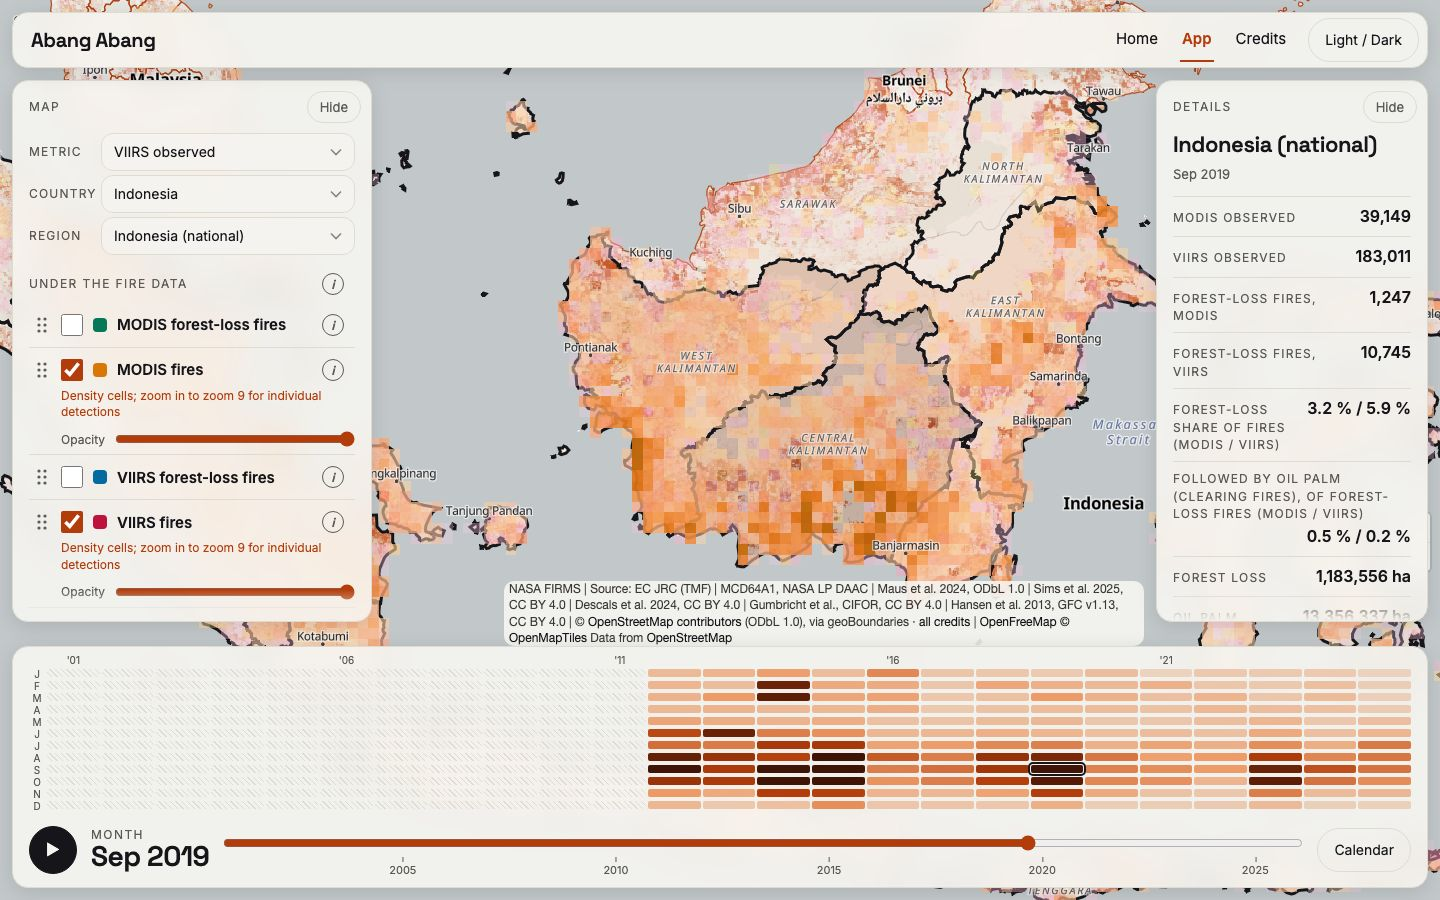
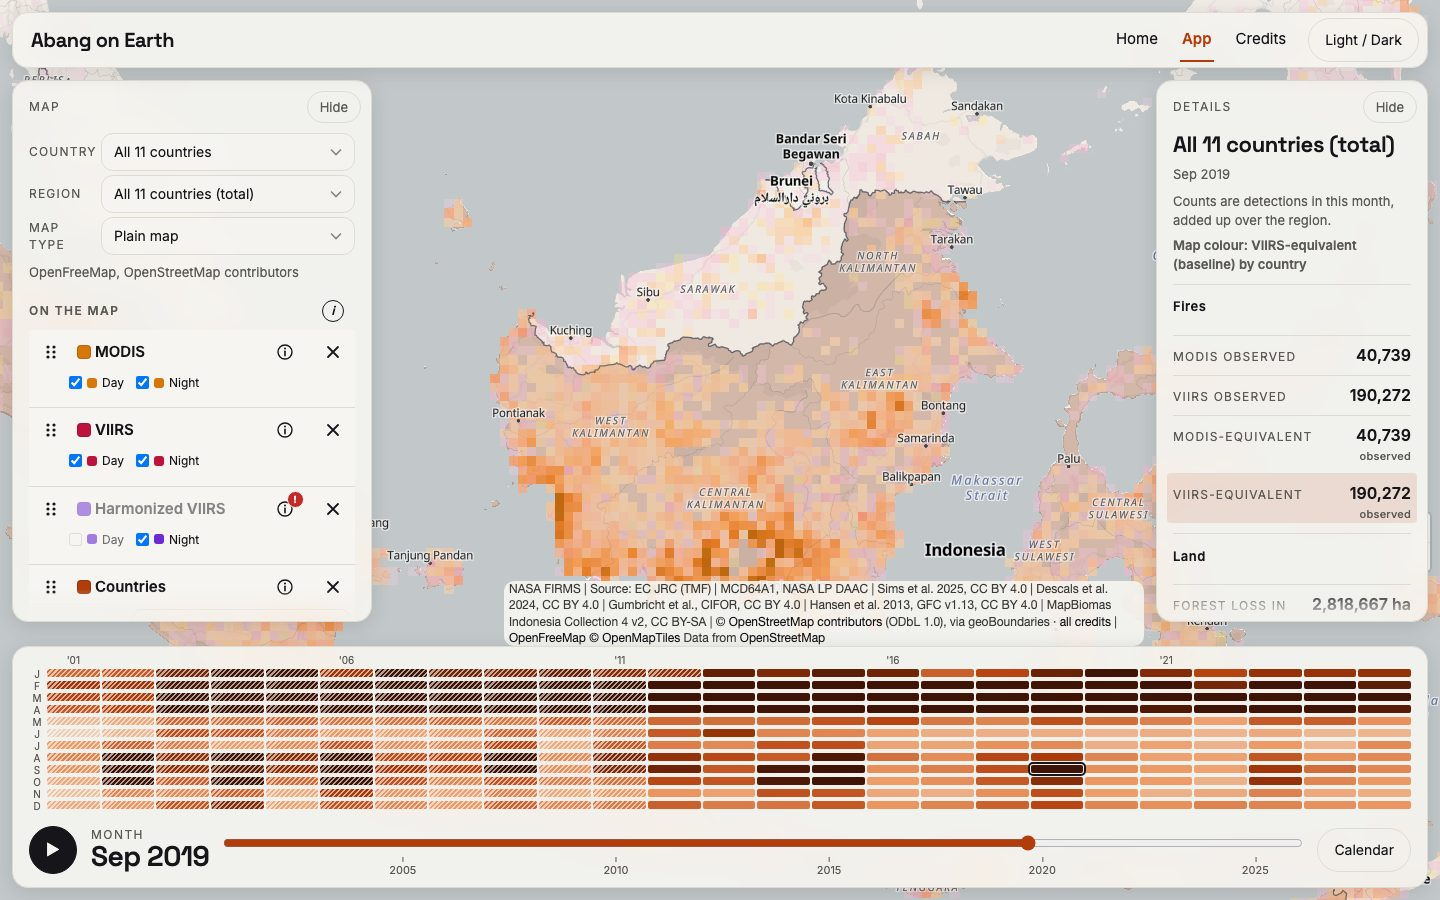
Landing page: screenshot of the current app, with matching alt text

diff --git a/index.html b/index.html
@@ -46,7 +46,7 @@
 </section>
 
 <section class="band" id="shot" aria-label="The app">
-<figure class="appshot"><a href="app/"><img src="home-app.jpg" width="1440" height="900" loading="lazy" alt="Screenshot of the app: Borneo in September 2019 with monthly fire density, the layer panel on the left, the details card on the right and the month calendar below."></a></figure>
+<figure class="appshot"><a href="app/"><img src="home-app.jpg" width="1440" height="900" loading="lazy" alt="Screenshot of the app: Borneo in September 2019 with monthly fire density from MODIS and VIIRS, the layer panel on the left with Day and Night boxes and the Harmonized VIIRS row, the details card on the right and the month calendar below."></a></figure>
 </section>
 
 <section class="band two" id="research" aria-labelledby="research-h">
